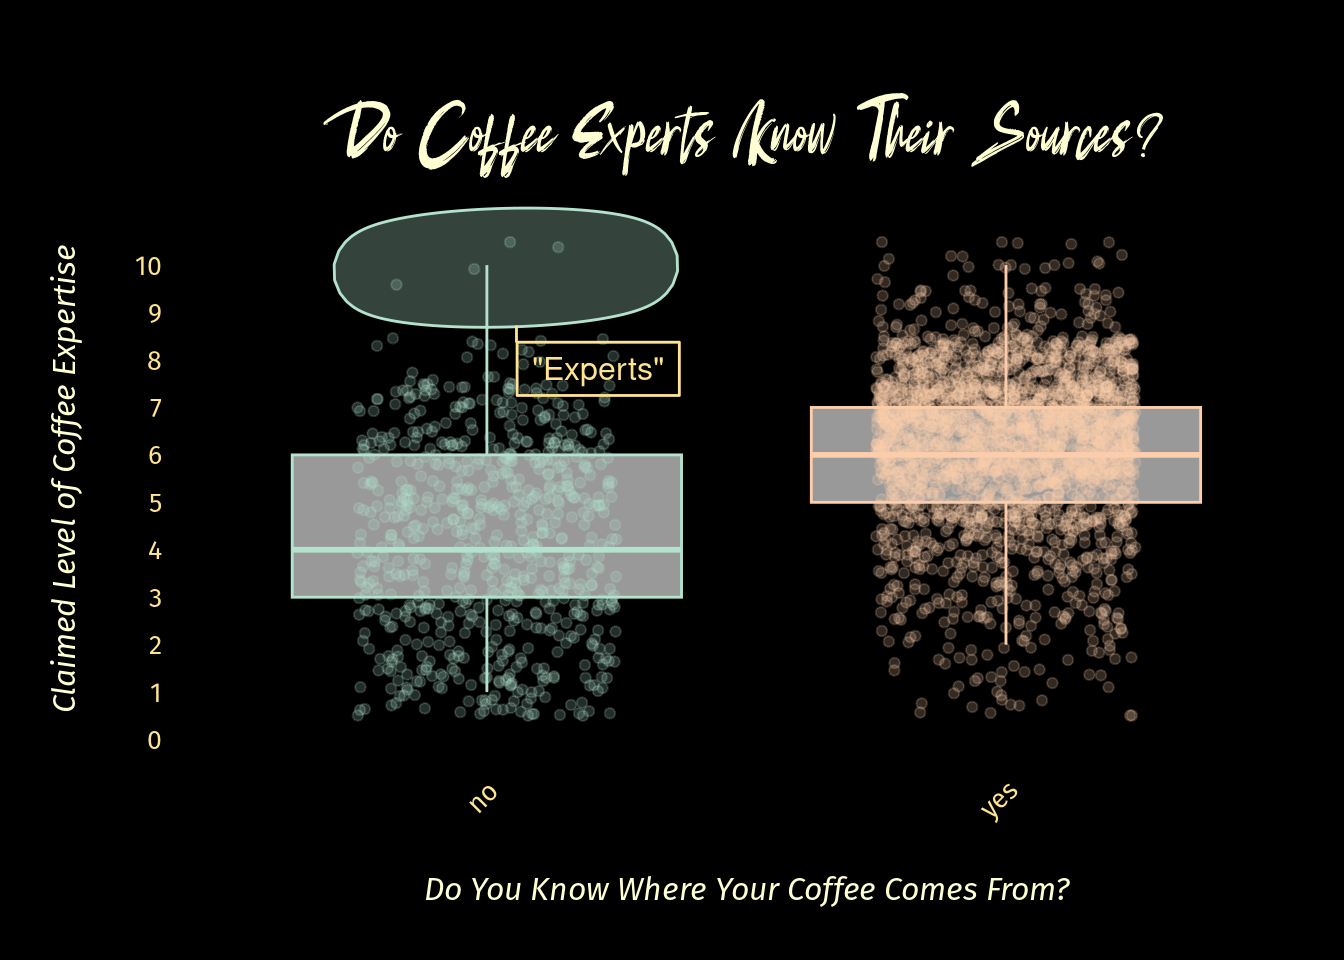
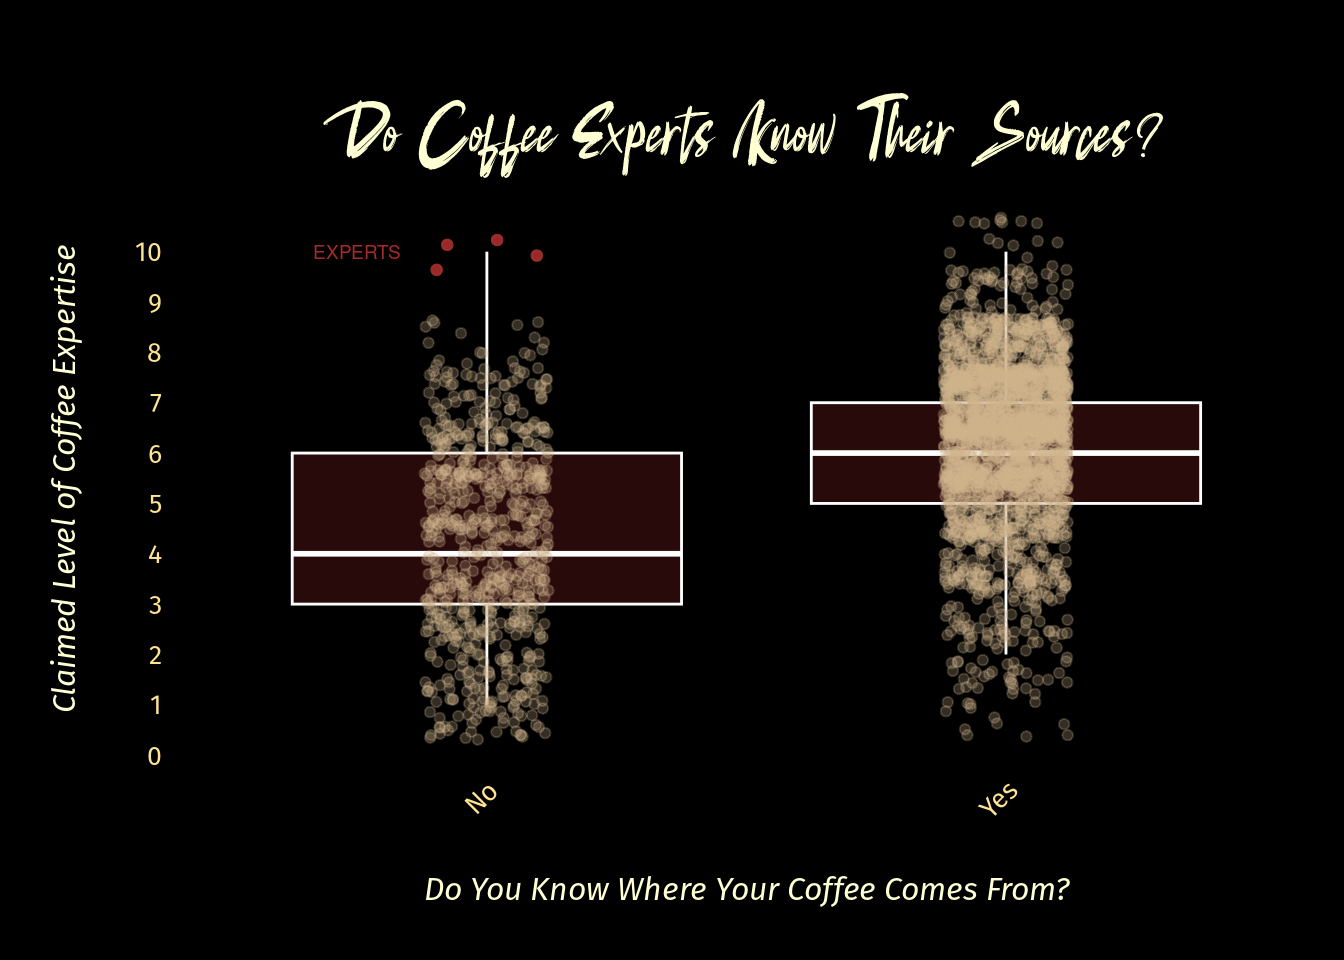
Built site for gh-pages

diff --git a/tidytuesday2024/tidy20.html b/tidytuesday2024/tidy20.html
@@ -329,19 +329,25 @@ pre > code.sourceCode > span > a:first-child::before { text-decoration: underlin
 <span id="cb6-12"><a href="#cb6-12" aria-hidden="true" tabindex="-1"></a>  )</span>
 <span id="cb6-13"><a href="#cb6-13" aria-hidden="true" tabindex="-1"></a></span>
 <span id="cb6-14"><a href="#cb6-14" aria-hidden="true" tabindex="-1"></a><span class="fu">ggplot</span>(ageVcups, <span class="fu">aes</span>(<span class="at">x =</span> age, <span class="at">fill =</span> cups)) <span class="sc">+</span></span>
-<span id="cb6-15"><a href="#cb6-15" aria-hidden="true" tabindex="-1"></a>  <span class="fu">geom_bar</span>(<span class="at">position =</span> <span class="st">"fill"</span>) <span class="sc">+</span></span>
-<span id="cb6-16"><a href="#cb6-16" aria-hidden="true" tabindex="-1"></a>  <span class="fu">labs</span>(</span>
-<span id="cb6-17"><a href="#cb6-17" aria-hidden="true" tabindex="-1"></a>    <span class="at">title =</span> <span class="st">"Cups of Coffee per Day by Age Group"</span>,</span>
-<span id="cb6-18"><a href="#cb6-18" aria-hidden="true" tabindex="-1"></a>    <span class="at">x =</span> <span class="st">"Age Group"</span>,</span>
-<span id="cb6-19"><a href="#cb6-19" aria-hidden="true" tabindex="-1"></a>    <span class="at">y =</span> <span class="st">"Percentage"</span>,</span>
-<span id="cb6-20"><a href="#cb6-20" aria-hidden="true" tabindex="-1"></a>    <span class="at">fill =</span> <span class="st">"Number of Cups"</span>  <span class="co"># Custom legend title</span></span>
-<span id="cb6-21"><a href="#cb6-21" aria-hidden="true" tabindex="-1"></a>  ) <span class="sc">+</span></span>
-<span id="cb6-22"><a href="#cb6-22" aria-hidden="true" tabindex="-1"></a>  <span class="fu">scale_fill_brewer</span>(<span class="at">palette =</span> <span class="st">"YlOrBr"</span>) <span class="sc">+</span></span>
-<span id="cb6-23"><a href="#cb6-23" aria-hidden="true" tabindex="-1"></a>  <span class="fu">scale_y_continuous</span>(<span class="at">labels =</span> <span class="sc">~</span> <span class="fu">paste0</span>(. <span class="sc">*</span> <span class="dv">100</span>, <span class="st">"%"</span>)) <span class="sc">+</span></span>
-<span id="cb6-24"><a href="#cb6-24" aria-hidden="true" tabindex="-1"></a>  <span class="fu">theme</span>(</span>
-<span id="cb6-25"><a href="#cb6-25" aria-hidden="true" tabindex="-1"></a>    <span class="at">legend.position =</span> <span class="st">"right"</span>,</span>
-<span id="cb6-26"><a href="#cb6-26" aria-hidden="true" tabindex="-1"></a>    <span class="at">axis.text.x =</span> <span class="fu">element_text</span>(<span class="at">angle =</span> <span class="dv">45</span>, <span class="at">hjust =</span> <span class="dv">1</span>)</span>
-<span id="cb6-27"><a href="#cb6-27" aria-hidden="true" tabindex="-1"></a>  )</span></code><button title="Copy to Clipboard" class="code-copy-button"><i class="bi"></i></button></pre></div>
+<span id="cb6-15"><a href="#cb6-15" aria-hidden="true" tabindex="-1"></a>  <span class="fu">geom_bar</span>(</span>
+<span id="cb6-16"><a href="#cb6-16" aria-hidden="true" tabindex="-1"></a>    <span class="at">position =</span> <span class="st">"fill"</span></span>
+<span id="cb6-17"><a href="#cb6-17" aria-hidden="true" tabindex="-1"></a>    ) <span class="sc">+</span></span>
+<span id="cb6-18"><a href="#cb6-18" aria-hidden="true" tabindex="-1"></a>  <span class="fu">labs</span>(</span>
+<span id="cb6-19"><a href="#cb6-19" aria-hidden="true" tabindex="-1"></a>    <span class="at">title =</span> <span class="st">"Cups of Coffee per Day by Age Group"</span>,</span>
+<span id="cb6-20"><a href="#cb6-20" aria-hidden="true" tabindex="-1"></a>    <span class="at">x =</span> <span class="st">"Age Group"</span>,</span>
+<span id="cb6-21"><a href="#cb6-21" aria-hidden="true" tabindex="-1"></a>    <span class="at">y =</span> <span class="st">"Percentage"</span>,</span>
+<span id="cb6-22"><a href="#cb6-22" aria-hidden="true" tabindex="-1"></a>    <span class="at">fill =</span> <span class="st">"Number of Cups"</span></span>
+<span id="cb6-23"><a href="#cb6-23" aria-hidden="true" tabindex="-1"></a>    ) <span class="sc">+</span></span>
+<span id="cb6-24"><a href="#cb6-24" aria-hidden="true" tabindex="-1"></a>  <span class="fu">scale_fill_brewer</span>(</span>
+<span id="cb6-25"><a href="#cb6-25" aria-hidden="true" tabindex="-1"></a>    <span class="at">palette =</span> <span class="st">"YlOrBr"</span></span>
+<span id="cb6-26"><a href="#cb6-26" aria-hidden="true" tabindex="-1"></a>    ) <span class="sc">+</span></span>
+<span id="cb6-27"><a href="#cb6-27" aria-hidden="true" tabindex="-1"></a>  <span class="fu">scale_y_continuous</span>(</span>
+<span id="cb6-28"><a href="#cb6-28" aria-hidden="true" tabindex="-1"></a>    <span class="at">labels =</span> <span class="sc">~</span> <span class="fu">paste0</span>(. <span class="sc">*</span> <span class="dv">100</span>, <span class="st">"%"</span>)</span>
+<span id="cb6-29"><a href="#cb6-29" aria-hidden="true" tabindex="-1"></a>    ) <span class="sc">+</span></span>
+<span id="cb6-30"><a href="#cb6-30" aria-hidden="true" tabindex="-1"></a>  <span class="fu">theme</span>(</span>
+<span id="cb6-31"><a href="#cb6-31" aria-hidden="true" tabindex="-1"></a>    <span class="at">legend.position =</span> <span class="st">"right"</span>,</span>
+<span id="cb6-32"><a href="#cb6-32" aria-hidden="true" tabindex="-1"></a>    <span class="at">axis.text.x =</span> <span class="fu">element_text</span>(<span class="at">angle =</span> <span class="dv">45</span>, <span class="at">hjust =</span> <span class="dv">1</span>)</span>
+<span id="cb6-33"><a href="#cb6-33" aria-hidden="true" tabindex="-1"></a>  )</span></code><button title="Copy to Clipboard" class="code-copy-button"><i class="bi"></i></button></pre></div>
 <div class="cell-output-display">
 <div class="quarto-figure quarto-figure-center">
 <figure class="figure">
@@ -360,28 +366,54 @@ pre > code.sourceCode > span > a:first-child::before { text-decoration: underlin
 <p>Lets take a look. A jitter-box plot will show this nicely.</p>
 <div class="cell" data-layout-align="center">
 <div class="sourceCode cell-code" id="cb7"><pre class="sourceCode r code-with-copy"><code class="sourceCode r"><span id="cb7-1"><a href="#cb7-1" aria-hidden="true" tabindex="-1"></a>expertiseVknowsource_tib <span class="ot">&lt;-</span> strip_tib <span class="sc">%&gt;%</span></span>
-<span id="cb7-2"><a href="#cb7-2" aria-hidden="true" tabindex="-1"></a>  <span class="fu">select</span>(expertise, know_source)</span>
-<span id="cb7-3"><a href="#cb7-3" aria-hidden="true" tabindex="-1"></a></span>
-<span id="cb7-4"><a href="#cb7-4" aria-hidden="true" tabindex="-1"></a><span class="fu">set.seed</span>(<span class="dv">357</span>)</span>
-<span id="cb7-5"><a href="#cb7-5" aria-hidden="true" tabindex="-1"></a>jitter <span class="ot">&lt;-</span> <span class="fu">position_jitter</span>(<span class="at">width =</span> <span class="fl">0.25</span>, <span class="at">height =</span> <span class="fl">0.5</span>)</span>
-<span id="cb7-6"><a href="#cb7-6" aria-hidden="true" tabindex="-1"></a></span>
-<span id="cb7-7"><a href="#cb7-7" aria-hidden="true" tabindex="-1"></a>p <span class="ot">&lt;-</span> <span class="fu">ggplot</span>(expertiseVknowsource_tib, <span class="fu">aes</span>(</span>
-<span id="cb7-8"><a href="#cb7-8" aria-hidden="true" tabindex="-1"></a>    <span class="at">x =</span> know_source, </span>
-<span id="cb7-9"><a href="#cb7-9" aria-hidden="true" tabindex="-1"></a>    <span class="at">y =</span> <span class="fu">as.numeric</span>(expertise), </span>
-<span id="cb7-10"><a href="#cb7-10" aria-hidden="true" tabindex="-1"></a>    <span class="at">color =</span> know_source)) <span class="sc">+</span></span>
-<span id="cb7-11"><a href="#cb7-11" aria-hidden="true" tabindex="-1"></a>  <span class="fu">geom_boxplot</span>(<span class="at">outlier.shape =</span> <span class="cn">NA</span>, <span class="at">alpha =</span> <span class="fl">0.6</span>) <span class="sc">+</span></span>
-<span id="cb7-12"><a href="#cb7-12" aria-hidden="true" tabindex="-1"></a>  <span class="fu">geom_jitter</span>(<span class="at">position =</span> jitter, <span class="at">alpha =</span> <span class="fl">0.2</span>) <span class="sc">+</span></span>
-<span id="cb7-13"><a href="#cb7-13" aria-hidden="true" tabindex="-1"></a>  <span class="fu">scale_fill_brewer</span>(<span class="at">palette =</span> <span class="st">"Pastel2"</span>) <span class="sc">+</span> <span class="co"># Apply the Brewer palette for fill colors</span></span>
-<span id="cb7-14"><a href="#cb7-14" aria-hidden="true" tabindex="-1"></a>  <span class="fu">scale_color_brewer</span>(<span class="at">palette =</span> <span class="st">"Pastel2"</span>) <span class="sc">+</span></span>
-<span id="cb7-15"><a href="#cb7-15" aria-hidden="true" tabindex="-1"></a>  <span class="fu">scale_y_continuous</span>(<span class="at">breaks =</span> <span class="fu">seq</span>(<span class="dv">0</span>, <span class="dv">10</span>, <span class="at">by =</span> <span class="dv">1</span>)) <span class="sc">+</span></span>
-<span id="cb7-16"><a href="#cb7-16" aria-hidden="true" tabindex="-1"></a>  <span class="fu">labs</span>(</span>
-<span id="cb7-17"><a href="#cb7-17" aria-hidden="true" tabindex="-1"></a>    <span class="at">title =</span> <span class="st">"Do Coffee Experts Know Their Sources?"</span>,</span>
-<span id="cb7-18"><a href="#cb7-18" aria-hidden="true" tabindex="-1"></a>    <span class="at">x =</span> <span class="st">"Do You Know Where Your Coffee Comes From?"</span>,</span>
-<span id="cb7-19"><a href="#cb7-19" aria-hidden="true" tabindex="-1"></a>    <span class="at">y =</span> <span class="st">"Claimed Level of Coffee Expertise"</span></span>
-<span id="cb7-20"><a href="#cb7-20" aria-hidden="true" tabindex="-1"></a>  ) <span class="sc">+</span></span>
-<span id="cb7-21"><a href="#cb7-21" aria-hidden="true" tabindex="-1"></a>  <span class="fu">theme</span>(<span class="at">legend.position =</span> <span class="st">"none"</span>)</span>
-<span id="cb7-22"><a href="#cb7-22" aria-hidden="true" tabindex="-1"></a></span>
-<span id="cb7-23"><a href="#cb7-23" aria-hidden="true" tabindex="-1"></a>p</span></code><button title="Copy to Clipboard" class="code-copy-button"><i class="bi"></i></button></pre></div>
+<span id="cb7-2"><a href="#cb7-2" aria-hidden="true" tabindex="-1"></a>  <span class="fu">select</span>(expertise, know_source) <span class="sc">%&gt;%</span> </span>
+<span id="cb7-3"><a href="#cb7-3" aria-hidden="true" tabindex="-1"></a>    <span class="fu">mutate</span>(<span class="at">know_source =</span> <span class="fu">case_when</span>(</span>
+<span id="cb7-4"><a href="#cb7-4" aria-hidden="true" tabindex="-1"></a>      <span class="fu">tolower</span>(know_source) <span class="sc">==</span> <span class="st">"yes"</span> <span class="sc">~</span> <span class="st">"Yes"</span>,</span>
+<span id="cb7-5"><a href="#cb7-5" aria-hidden="true" tabindex="-1"></a>      <span class="fu">tolower</span>(know_source) <span class="sc">==</span> <span class="st">"no"</span> <span class="sc">~</span> <span class="st">"No"</span>,</span>
+<span id="cb7-6"><a href="#cb7-6" aria-hidden="true" tabindex="-1"></a>      <span class="cn">TRUE</span> <span class="sc">~</span> know_source))</span>
+<span id="cb7-7"><a href="#cb7-7" aria-hidden="true" tabindex="-1"></a></span>
+<span id="cb7-8"><a href="#cb7-8" aria-hidden="true" tabindex="-1"></a>evk_lite <span class="ot">&lt;-</span> expertiseVknowsource_tib <span class="sc">%&gt;%</span> </span>
+<span id="cb7-9"><a href="#cb7-9" aria-hidden="true" tabindex="-1"></a>  <span class="fu">filter</span>(<span class="sc">!</span>(know_source <span class="sc">==</span> <span class="st">"No"</span> <span class="sc">&amp;</span> expertise <span class="sc">==</span> <span class="dv">10</span>))</span>
+<span id="cb7-10"><a href="#cb7-10" aria-hidden="true" tabindex="-1"></a></span>
+<span id="cb7-11"><a href="#cb7-11" aria-hidden="true" tabindex="-1"></a>evk_hilite <span class="ot">&lt;-</span> expertiseVknowsource_tib <span class="sc">%&gt;%</span> </span>
+<span id="cb7-12"><a href="#cb7-12" aria-hidden="true" tabindex="-1"></a>  <span class="fu">filter</span>(know_source <span class="sc">==</span> <span class="st">"No"</span> <span class="sc">&amp;</span> expertise <span class="sc">==</span> <span class="dv">10</span>)</span>
+<span id="cb7-13"><a href="#cb7-13" aria-hidden="true" tabindex="-1"></a></span>
+<span id="cb7-14"><a href="#cb7-14" aria-hidden="true" tabindex="-1"></a>p <span class="ot">&lt;-</span> <span class="fu">ggplot</span>(evk_lite, <span class="fu">aes</span>(</span>
+<span id="cb7-15"><a href="#cb7-15" aria-hidden="true" tabindex="-1"></a>    <span class="at">x =</span> know_source, </span>
+<span id="cb7-16"><a href="#cb7-16" aria-hidden="true" tabindex="-1"></a>    <span class="at">y =</span> <span class="fu">as.numeric</span>(expertise))</span>
+<span id="cb7-17"><a href="#cb7-17" aria-hidden="true" tabindex="-1"></a>  ) <span class="sc">+</span></span>
+<span id="cb7-18"><a href="#cb7-18" aria-hidden="true" tabindex="-1"></a>  <span class="fu">geom_boxplot</span>(</span>
+<span id="cb7-19"><a href="#cb7-19" aria-hidden="true" tabindex="-1"></a>    <span class="at">data =</span> expertiseVknowsource_tib,</span>
+<span id="cb7-20"><a href="#cb7-20" aria-hidden="true" tabindex="-1"></a>    <span class="at">outlier.shape =</span> <span class="cn">NA</span>, </span>
+<span id="cb7-21"><a href="#cb7-21" aria-hidden="true" tabindex="-1"></a>    <span class="at">fill =</span> <span class="st">"brown"</span>, </span>
+<span id="cb7-22"><a href="#cb7-22" aria-hidden="true" tabindex="-1"></a>    <span class="at">color =</span> <span class="st">"white"</span>, </span>
+<span id="cb7-23"><a href="#cb7-23" aria-hidden="true" tabindex="-1"></a>    <span class="at">alpha =</span> <span class="fl">0.25</span></span>
+<span id="cb7-24"><a href="#cb7-24" aria-hidden="true" tabindex="-1"></a>  ) <span class="sc">+</span></span>
+<span id="cb7-25"><a href="#cb7-25" aria-hidden="true" tabindex="-1"></a>  <span class="fu">geom_point</span>(</span>
+<span id="cb7-26"><a href="#cb7-26" aria-hidden="true" tabindex="-1"></a>    <span class="at">data =</span> evk_lite,</span>
+<span id="cb7-27"><a href="#cb7-27" aria-hidden="true" tabindex="-1"></a>    <span class="at">position =</span> <span class="fu">position_jitter</span>(<span class="at">seed =</span> <span class="dv">119</span>, <span class="at">width =</span> <span class="fl">0.12</span>, <span class="at">height =</span> <span class="fl">0.69</span>),</span>
+<span id="cb7-28"><a href="#cb7-28" aria-hidden="true" tabindex="-1"></a>    <span class="at">color =</span> <span class="st">"tan"</span>,</span>
+<span id="cb7-29"><a href="#cb7-29" aria-hidden="true" tabindex="-1"></a>    <span class="at">alpha =</span> <span class="fl">0.25</span></span>
+<span id="cb7-30"><a href="#cb7-30" aria-hidden="true" tabindex="-1"></a>  ) <span class="sc">+</span></span>
+<span id="cb7-31"><a href="#cb7-31" aria-hidden="true" tabindex="-1"></a>  <span class="fu">geom_point</span>(</span>
+<span id="cb7-32"><a href="#cb7-32" aria-hidden="true" tabindex="-1"></a>    <span class="at">data =</span> evk_hilite,</span>
+<span id="cb7-33"><a href="#cb7-33" aria-hidden="true" tabindex="-1"></a>    <span class="at">position =</span> <span class="fu">position_jitter</span>(<span class="at">seed =</span> <span class="dv">119</span>, <span class="at">width =</span> <span class="fl">0.1</span>, <span class="at">height =</span> <span class="fl">0.69</span>),</span>
+<span id="cb7-34"><a href="#cb7-34" aria-hidden="true" tabindex="-1"></a>    <span class="at">color =</span> <span class="st">"tan"</span>,</span>
+<span id="cb7-35"><a href="#cb7-35" aria-hidden="true" tabindex="-1"></a>    <span class="at">alpha =</span> <span class="fl">0.25</span></span>
+<span id="cb7-36"><a href="#cb7-36" aria-hidden="true" tabindex="-1"></a>  ) <span class="sc">+</span></span>
+<span id="cb7-37"><a href="#cb7-37" aria-hidden="true" tabindex="-1"></a>  <span class="fu">scale_y_continuous</span>(</span>
+<span id="cb7-38"><a href="#cb7-38" aria-hidden="true" tabindex="-1"></a>    <span class="at">breaks =</span> <span class="fu">seq</span>(<span class="dv">0</span>, <span class="dv">10</span>, <span class="at">by =</span> <span class="dv">1</span>)</span>
+<span id="cb7-39"><a href="#cb7-39" aria-hidden="true" tabindex="-1"></a>  ) <span class="sc">+</span></span>
+<span id="cb7-40"><a href="#cb7-40" aria-hidden="true" tabindex="-1"></a>  <span class="fu">labs</span>(</span>
+<span id="cb7-41"><a href="#cb7-41" aria-hidden="true" tabindex="-1"></a>    <span class="at">title =</span> <span class="st">"Do Coffee Experts Know Their Sources?"</span>,</span>
+<span id="cb7-42"><a href="#cb7-42" aria-hidden="true" tabindex="-1"></a>    <span class="at">x =</span> <span class="st">"Do You Know Where Your Coffee Comes From?"</span>,</span>
+<span id="cb7-43"><a href="#cb7-43" aria-hidden="true" tabindex="-1"></a>    <span class="at">y =</span> <span class="st">"Claimed Level of Coffee Expertise"</span></span>
+<span id="cb7-44"><a href="#cb7-44" aria-hidden="true" tabindex="-1"></a>  ) <span class="sc">+</span></span>
+<span id="cb7-45"><a href="#cb7-45" aria-hidden="true" tabindex="-1"></a>  <span class="fu">theme</span>(</span>
+<span id="cb7-46"><a href="#cb7-46" aria-hidden="true" tabindex="-1"></a>    <span class="at">legend.position =</span> <span class="st">"none"</span></span>
+<span id="cb7-47"><a href="#cb7-47" aria-hidden="true" tabindex="-1"></a>  )</span>
+<span id="cb7-48"><a href="#cb7-48" aria-hidden="true" tabindex="-1"></a></span>
+<span id="cb7-49"><a href="#cb7-49" aria-hidden="true" tabindex="-1"></a>p</span></code><button title="Copy to Clipboard" class="code-copy-button"><i class="bi"></i></button></pre></div>
 <div class="cell-output-display">
 <div class="quarto-figure quarto-figure-center">
 <figure class="figure">
@@ -397,23 +429,31 @@ pre > code.sourceCode > span > a:first-child::before { text-decoration: underlin
 <p>Not too suprising. The more you claim to know about coffee the more likely you are to also claim to know where your coffee comes from.</p>
 <p>But who are those four coffee geniuses who don’t care where their coffee comes from?</p>
 <div class="cell" data-layout-align="center">
-<div class="sourceCode cell-code" id="cb8"><pre class="sourceCode r code-with-copy"><code class="sourceCode r"><span id="cb8-1"><a href="#cb8-1" aria-hidden="true" tabindex="-1"></a><span class="fu">set.seed</span>(<span class="dv">357</span>)</span>
-<span id="cb8-2"><a href="#cb8-2" aria-hidden="true" tabindex="-1"></a></span>
-<span id="cb8-3"><a href="#cb8-3" aria-hidden="true" tabindex="-1"></a>p_hilite <span class="ot">&lt;-</span> p <span class="sc">+</span></span>
-<span id="cb8-4"><a href="#cb8-4" aria-hidden="true" tabindex="-1"></a>  <span class="fu">geom_mark_ellipse</span>(</span>
-<span id="cb8-5"><a href="#cb8-5" aria-hidden="true" tabindex="-1"></a>    <span class="fu">aes</span>(<span class="at">fill =</span> know_source,</span>
-<span id="cb8-6"><a href="#cb8-6" aria-hidden="true" tabindex="-1"></a>        <span class="at">filter =</span> (know_source <span class="sc">==</span> <span class="st">"no"</span>) <span class="sc">&amp;</span> (expertise <span class="sc">==</span> <span class="dv">10</span>), <span class="at">description =</span> <span class="st">'"Experts"'</span>), </span>
-<span id="cb8-7"><a href="#cb8-7" aria-hidden="true" tabindex="-1"></a>      <span class="at">label.fill =</span> <span class="cn">NA</span>,</span>
-<span id="cb8-8"><a href="#cb8-8" aria-hidden="true" tabindex="-1"></a>      <span class="at">label.colour =</span> brew_colors[<span class="dv">2</span>],</span>
-<span id="cb8-9"><a href="#cb8-9" aria-hidden="true" tabindex="-1"></a>      <span class="at">label.buffer =</span> <span class="fu">unit</span>(<span class="dv">0</span>, <span class="st">"mm"</span>),</span>
-<span id="cb8-10"><a href="#cb8-10" aria-hidden="true" tabindex="-1"></a>      <span class="at">con.border =</span> <span class="st">"all"</span>,</span>
-<span id="cb8-11"><a href="#cb8-11" aria-hidden="true" tabindex="-1"></a>      <span class="at">con.colour =</span> brew_colors[<span class="dv">2</span>],</span>
-<span id="cb8-12"><a href="#cb8-12" aria-hidden="true" tabindex="-1"></a>      <span class="at">con.cap =</span> <span class="dv">0</span>,</span>
-<span id="cb8-13"><a href="#cb8-13" aria-hidden="true" tabindex="-1"></a>      <span class="at">position =</span> jitter</span>
-<span id="cb8-14"><a href="#cb8-14" aria-hidden="true" tabindex="-1"></a>  ) <span class="sc">+</span></span>
-<span id="cb8-15"><a href="#cb8-15" aria-hidden="true" tabindex="-1"></a>  <span class="fu">expand_limits</span>(<span class="at">y =</span> <span class="fu">c</span>(<span class="dv">0</span>,<span class="dv">11</span>))</span>
-<span id="cb8-16"><a href="#cb8-16" aria-hidden="true" tabindex="-1"></a></span>
-<span id="cb8-17"><a href="#cb8-17" aria-hidden="true" tabindex="-1"></a>p_hilite</span></code><button title="Copy to Clipboard" class="code-copy-button"><i class="bi"></i></button></pre></div>
+<div class="sourceCode cell-code" id="cb8"><pre class="sourceCode r code-with-copy"><code class="sourceCode r"><span id="cb8-1"><a href="#cb8-1" aria-hidden="true" tabindex="-1"></a>hilite <span class="ot">&lt;-</span> expertiseVknowsource_tib <span class="sc">%&gt;%</span> </span>
+<span id="cb8-2"><a href="#cb8-2" aria-hidden="true" tabindex="-1"></a>  <span class="fu">filter</span>(know_source <span class="sc">==</span> <span class="st">"No"</span> <span class="sc">&amp;</span> expertise <span class="sc">==</span> <span class="dv">10</span>)</span>
+<span id="cb8-3"><a href="#cb8-3" aria-hidden="true" tabindex="-1"></a></span>
+<span id="cb8-4"><a href="#cb8-4" aria-hidden="true" tabindex="-1"></a><span class="co"># set.seed(357)</span></span>
+<span id="cb8-5"><a href="#cb8-5" aria-hidden="true" tabindex="-1"></a><span class="co"># jitter &lt;- position_jitter(width = 0.25, height = 0.5)</span></span>
+<span id="cb8-6"><a href="#cb8-6" aria-hidden="true" tabindex="-1"></a></span>
+<span id="cb8-7"><a href="#cb8-7" aria-hidden="true" tabindex="-1"></a>p_hilite <span class="ot">&lt;-</span> p <span class="sc">+</span></span>
+<span id="cb8-8"><a href="#cb8-8" aria-hidden="true" tabindex="-1"></a>  <span class="fu">geom_point</span>(<span class="at">data =</span> hilite, <span class="fu">aes</span>(</span>
+<span id="cb8-9"><a href="#cb8-9" aria-hidden="true" tabindex="-1"></a>    <span class="at">x =</span> know_source, </span>
+<span id="cb8-10"><a href="#cb8-10" aria-hidden="true" tabindex="-1"></a>    <span class="at">y =</span> <span class="fu">as.numeric</span>(expertise)),</span>
+<span id="cb8-11"><a href="#cb8-11" aria-hidden="true" tabindex="-1"></a>    <span class="at">position =</span> <span class="fu">position_jitter</span>(<span class="at">seed =</span> <span class="dv">119</span>, <span class="at">width =</span> <span class="fl">0.1</span>, <span class="at">height =</span> <span class="fl">0.69</span>), </span>
+<span id="cb8-12"><a href="#cb8-12" aria-hidden="true" tabindex="-1"></a>    <span class="at">color =</span> <span class="st">"brown"</span>,</span>
+<span id="cb8-13"><a href="#cb8-13" aria-hidden="true" tabindex="-1"></a>    <span class="at">alpha =</span> .<span class="dv">88</span></span>
+<span id="cb8-14"><a href="#cb8-14" aria-hidden="true" tabindex="-1"></a>    ) <span class="sc">+</span></span>
+<span id="cb8-15"><a href="#cb8-15" aria-hidden="true" tabindex="-1"></a>  <span class="fu">annotate</span>(</span>
+<span id="cb8-16"><a href="#cb8-16" aria-hidden="true" tabindex="-1"></a>    <span class="st">"text"</span>,</span>
+<span id="cb8-17"><a href="#cb8-17" aria-hidden="true" tabindex="-1"></a>    <span class="at">x =</span> .<span class="dv">75</span>,</span>
+<span id="cb8-18"><a href="#cb8-18" aria-hidden="true" tabindex="-1"></a>    <span class="at">y =</span> <span class="dv">10</span>,</span>
+<span id="cb8-19"><a href="#cb8-19" aria-hidden="true" tabindex="-1"></a>    <span class="at">label =</span> <span class="st">"EXPERTS"</span>,</span>
+<span id="cb8-20"><a href="#cb8-20" aria-hidden="true" tabindex="-1"></a>    <span class="at">size =</span> <span class="fl">2.5</span>,</span>
+<span id="cb8-21"><a href="#cb8-21" aria-hidden="true" tabindex="-1"></a>    <span class="co">#fontface = "italic",</span></span>
+<span id="cb8-22"><a href="#cb8-22" aria-hidden="true" tabindex="-1"></a>    <span class="at">color =</span> <span class="st">"brown"</span></span>
+<span id="cb8-23"><a href="#cb8-23" aria-hidden="true" tabindex="-1"></a>  )</span>
+<span id="cb8-24"><a href="#cb8-24" aria-hidden="true" tabindex="-1"></a></span>
+<span id="cb8-25"><a href="#cb8-25" aria-hidden="true" tabindex="-1"></a>p_hilite</span></code><button title="Copy to Clipboard" class="code-copy-button"><i class="bi"></i></button></pre></div>
 <div class="cell-output-display">
 <div class="quarto-figure quarto-figure-center">
 <figure class="figure">
